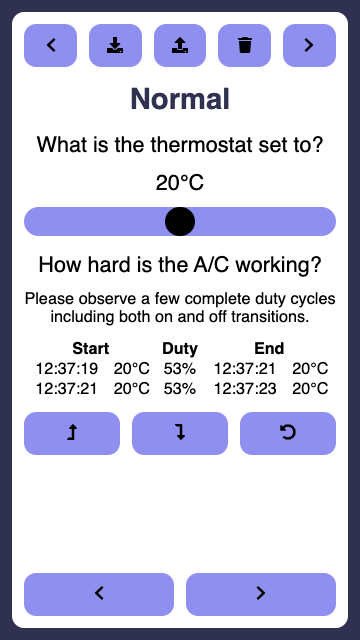
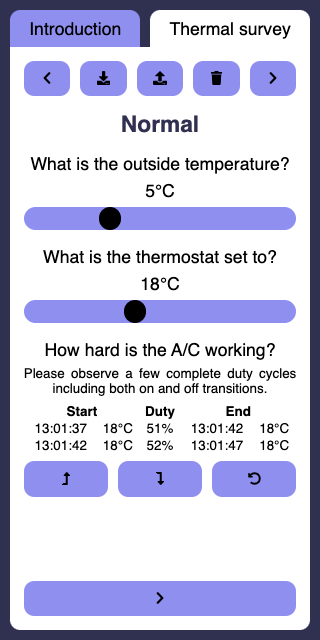
Update documentation to present state
* Update screenshot to show tabbed interface.
* Remove expired or completed TODOS.
* Put the recent work into `review`.
* Update readme

diff --git a/src/components/ThermostaticObservation.vue b/src/components/ThermostaticObservation.vue
@@ -75,7 +75,6 @@ export default defineComponent({
 					this.modelValue.slice(0, -1).concat([newTail])
 				);
 			} else if (
-				// TODO Replace this whole time listing with a list of times
 				recent.startTime !== undefined &&
 				recent.transitionTime !== undefined &&
 				recent.endTime === undefined

diff --git a/src/components/ThermalSurvey.vue b/src/components/ThermalSurvey.vue
@@ -270,7 +270,6 @@ export default defineComponent({
 				...data,
 			};
 		},
-		// TODO Tidy incomplete observations on phase shift
 		doNext(): void {
 			Object.assign(this.$data, this.cleanseData(this.$data));
 			if (this.phase === ObservationPhases.Introduction) {

diff --git a/README.md b/README.md
@@ -23,7 +23,7 @@ This offsetting of operation through time is equivalent to storing energy when p
 
 ## Deliverables
 
-This project will create an application to steer an operator towards more efficient scheduling.
+This project will create an application to steer a server room technician towards more efficient scheduling.
 It will gather the data required via a survey, model the thermal characteristics of the room, compute an optimised thermostat schedule and present the forecast savings.
 The project assumes that its audience is technical, consistent with having some responsibility for a server room's environmental controls.
 
@@ -44,9 +44,9 @@ This budget resolves to about six full-time equivalent weeks.
 
 In choosing the software development model, the first consideration is positioning on the spectrum from waterfall to agile.
 This project has a small, well-bounded and useful product within a sizeable pluripotential scope for development.
-For example, the MVP could consist of a data-gathering flow, a simplified thermal model, a schedule optimisation algorithm and a brief final report.
+For example, the minimum viable product (MVP) could consist of a data-gathering flow, a simplified thermal model, a schedule optimisation algorithm and a brief final report.
 Alongside architecture decisions and toolchain initialisation, this MVP will require an estimated 70% of the project budget.
-The scope for improving this offering includes iteratively improving any of these functional requirements, adding integration with APIs, the internet of things, and more accurate modelling.
+The scope for improving this offering includes iteratively improving any of these functional requirements, adding integration with APIs, the internet of things (IoT), and more accurate modelling.
 It is also worth noting that it is not a critical system and the project commissioners require several milestones.
 In conclusion, this project will be organised in an agile fashion, prompted mainly by the relative scale of MVP and potential.
 The MVP development will be a series of small increments, with further development being incremental or iterative as required.
@@ -80,18 +80,21 @@ Third, there is value to data communication and sharing, but this is not an esse
 Finally, this should be available without installation as a significant proportion of users are likely to be single-use.
 These requirements suit deployment as a stand-alone website using client-side data retention and processing.
 
+The main issue with this deployment style is migrating data from previous versions, as the data is not under the systems' control. 
+To offset this issue, the top-level data objects will have version numbers, and there shall be a data loading procedure capable of stepping a dataset up the version numbers.
+
 Due to the project time constraints, the language and framework must be familiar to the developer.
 In addition, the project is quite data-centric, so it favours a strong type system.
 Alongside this, the immediate context for deployment is the web, so the language choice must support this.
 Finally, there is also potential for IoT and mobile deployments, which should steer consideration.
 Within these criteria, TypeScript seems the best choice for language.
 It has a modern type system, is compilable to ECMAScript for web deployment, can be executed in Node.js for IoT deployment and is familiar to the developer.
-One concern is its deployability as a mobile app, but the *-native projects should accommodate this.
+Of course, the entire product might derive value from a mobile-app deployment, but this is both beyond this project's scope and probably resolvable using the *-native projects.
 
-The selection of a user interface framework is more balanced than language but with a couple of early eliminations.
+The user interface framework selection is more balanced than language but with a couple of early eliminations.
 First, direct DOM manipulation is not sustainable or manageable.
-Secondly, server-side rendering of the DOM adds unnecessary components, specifically server-side processing.
-Therefore client-side reactive web frameworks were considered.
+Secondly, server-side calculation of the HTML adds unnecessary components, specifically server-side processing.
+Therefore client-side reactive web frameworks were favoured, simplifying the deployment and maintenance, with both Vue.js and React being familiar.
 As tie-breakers, the Vue.js experience was more developer-friendly, and it has a higher quantity of GitHub stars.
 In conclusion, this project will use Vue.js, especially single file components, but this was a close decision.
 
@@ -114,21 +117,24 @@ Figure n.n - Feature comparison matrix of language options.
 
 ## Work Completed
 
-For several reasons, gathering a set of thermal observations was a vital early milestone and this received priority above other concerns.
-First, gaining access to an example server room provides a case study, and gathering these observations proved that access.
+For several reasons, gathering a set of thermal observations is a vital early milestone and this received priority above other concerns.
+First, gaining access to an example server room provides a case study, and gathering these observations proves that access.
 Furthermore, these observations will inform and verify modelling assumptions, which is improved by gathering these observations across as wide a range of seasons as possible.
 
 Several elements were required to script this set of observations.
 Most importantly, research into the thermal behaviour of rooms was conducted and supplemented by a quick survey of the room available.
 This research ensured that any detailed survey taken suited a fully formed model.
 Since such a model would require calculations of how rapidly a room could change temperature, permission to adjust the room's thermostat was negotiated.
-The quick survey revealed that the server room windows are north facing and boarded over, so the initial model can ignore radiative thermal effects.
+The quick survey revealed that the server room windows are north facing and boarded over, so the initial model can ignore solar thermal effects.
+
+![Plan showing a server room 9m x 12m x 4m](docs/bdx_plan.png)
 
 Figure n.n - Plan of the server room surveyed
 
 To support this survey, the developer initialised the UI of this project, designed the survey's workflow, and implemented this in the interface.
 The UI consists of a reactive website with custom data-gathering components, targetting low resolutions and touchscreen interaction to support smartphone usage.
-Within this, the survey observes the room as it moves between and maintains different temperatures. As a result, this data should support an intermediate thermal model.
+Within this, the survey asks about the room as it moves between and maintains different temperatures.
+As a result, this data should support an intermediate thermal model.
 
 ![Overview of gathering data](docs/thermal_observation_sequence.png)
 
@@ -136,7 +142,7 @@ Figure n.n - Overview of the thermal survey workflow.
 
 ![Smartphone interface](docs/screenshot.png)
 
-Figure n.n - Web interface at 360 x 640
+Figure n.n - Web interface at 360 x 640.
 
 ## Simplifications
 
@@ -162,13 +168,14 @@ This section records the simplifying assumptions currently applied to the modell
   * Active observations measure the duty time required to enact temperature changes.
   * The duty cycle is directly proportional to the resource cost required without needing thermal units.
   * The basic units become `duty`, `celsius` and `hour`.
-    * e.g., passive cooling reduces the duty cycle of the air conditioning by 3% per celsius difference.
-    * e.g., changing the server room's temperature requires one duty hour per celsius.
-    * e.g., running the air conditioning uses 1 ton of CO2 per duty hour.
+  * e.g., passive cooling reduces the duty cycle of the air conditioning by 3% per celsius difference.
+  * e.g., changing the server room's temperature requires one duty hour per celsius.
+  * e.g., running the air conditioning uses 1 ton of CO2 per duty hour.
 
 ## Roadmap
 
-In line with the project lifecycle adopted, this is several lists of stakeholder stories, each in the format `A (stakeholder) (must|should|could|will not) …`.
+Similar to the project lifecycle adopted, this is several lists of stakeholder stories, each in the format `A (stakeholder) (must|should|could|will not) …`.
+This project adapts the core Kanban board by broadening the scope of concerns from "user stories" to "stakeholder stories" and by adding a qualitative bucket to capture persistent requirements.
 These stories will move in step with the code that implements them and reside in the code repository, so the project history is always accurate of that moment in time.
 
 ### Backlog
@@ -188,13 +195,12 @@ These stories will move in step with the code that implements them and reside in
 * A technician must be able to input an electricity tariff schedule.
 * A technician must be able to generate an optimised thermostat schedule.
 * A technician must be able to generate a business-oriented report.
-* A technician must be able to gather thermal observations of a server room.
-
-### Design
 
 ### Develop
 
-### Review
+### Done
+
+* A technician must be able to gather thermal observations of a server room.
 
 ### Qualitative
 
@@ -205,19 +211,18 @@ These stories will move in step with the code that implements them and reside in
 
 ## Blockers
 
-To achieve the task, "A technician should have information on an example server room available." the project requires permission to observe and adjust the thermostat of a server room.
+To achieve the task, "*A technician should have information on an example server room available.*" the project requires permission to observe and adjust the thermostat of a server room.
 This permission is critical as the risk has a high likelihood and high impact.
 This concern is likely because the temperature is a tightly controlled aspect of a server room.
-Furthermore, it is impactful because this example provides feedback about the user experience and gives the project a case study. 
+Furthermore, it is impactful because this example provides feedback about the user experience and gives the project a case study.
 
 Therefore, negotiation-in-principle started immediately upon beginning the project to bring any related decision point forwards.
 Now that we have outlined a survey workflow, the developer is negotiating access to perform the required tasks.
 If this negotiation fails, the project may continue without a case study or transition to modelling a more available example of thermodynamics and power offsetting, such as domestic refrigerators.
 
-To achieve or defer the task, "A technician should be able to model a room with significant passive cooling." the project must incorporate learning into the mathematics of thermodynamic cooling.
-Failing in this learning is of medium likelihood as the science is sure to be public domain but is also likely to be intermediate.
+To achieve or defer the task, "*A technician should be able to model a room with significant passive cooling.*" the project must incorporate learning into the mathematics of thermodynamic cooling.
+Failing in this learning is of medium likelihood as the science is sure to be public domain but is also likely to be intermediate level.
 In addition, this research is of high impact as it can underwrite and prioritise other simplifications.
-
 Therefore, achieving a basic understanding of this field is second only to finding an engaging case study, and is the target of early secondary research efforts.
 
 ## Thermodynamics
@@ -233,16 +238,16 @@ Figure n.n - Building management system (BMS) interface
 
 Two 51.6kW air conditioning units cool the BDX for a total cooling power of 103.2kW.
 This infrastructure is N + 1 redundant, implying a cap upon server equipment at 51.6kW before upgrades.
-The BDX complements this with precision units that cool the server equipment by heating the thermal mass of the room.
+The BDX complements this with precision units that cool the server equipment by heating the room's environment.
 
 The BMS holds the room at 20 degrees celsius, and the external temperature varies between 3 and 20 degrees celsius.
-The external wall comprises an uninsulated stud wall, an access corridor and a single pane glass wall of about 23 m².
-An upper estimate of cooling through this wall (rounded up to 1 s.f.) is 1 kilowatt (see Appendix n).
-This estimate diminishes the importance of modelling weather conditions in this situation.
+The external wall comprises a plastered concrete wall, an access corridor and a single pane glass wall of about 44 m^2.
+Therefore, an upper estimate of cooling through this wall (rounded up to 2 s.f.) is 1.8 kilowatt (see Appendix n).
+This estimate puts a medium prioritisation on modelling weather conditions in this situation.
 
-The remaining surfaces of the BDX separate the room from other offices and underground.
+The remaining surfaces of the BDX separate the room from other offices and underground with a surface area of around 330 m^2.
 The calculations model a 2 kelvin difference with the data hall to estimate significance.
-An upper estimate of cooling through the floor, ceiling, internal, and underground walls is 900 watts (rounded up to 1 s.f.) (see Appendix n) for a passive cooling total of up to 2 kilowatts.
+An upper estimate of cooling through the floor, ceiling, internal, and underground walls is 1.3 kilowatts (rounded up to 2 s.f.) (see Appendix n).
 This estimate puts a medium prioritisation on modelling passive cooling.
 
 Although further research is warranted and scheduled, these relative significances seem generalisable.
@@ -276,9 +281,9 @@ Figure n.n - Quick survey of typical server room construction
 | Brighton Digital Exchange Data Centre                           | Sudlows                 | 2015-07           | <https://www.sudlows.com/wp-content/uploads/2016/07/Brighton-Digital-Exchange.pdf>                  | 2022-02-14  | Case study            |
 | ACIS provides the big picture at Brighton Digital Exchange      | Airedale                | 2015-07           | <https://www.airedale.com/case-studies/acis-provides-the-big-picture-at-brighton-digital-exchange>  | 2022-02-14  | Case study            |
 | Energy in buildings                                             | OpenLearn               | 2019-03           | <https://www.open.edu/openlearn/nature-environment/energy-buildings/content-section-2>              | 2022-02-15  | Modelling data        |
-| Environmental design : CIBSE guide A. 8th ed.                   | CIBSE.                  | 2015              | <https://app.knovel.com/kn/resources/kpEDCIBSE1/toc>                                                | 2022-02-15  | Modelling data        |
-| Server room image search at DuckDuckGo    | DuckDuckGo              | 2022-02           | <https://duckduckgo.com/?q=server+room&t=h_&iax=images&ia=images>                                   | 2022-02-15  | Quick case studies    |
-| What is Agile?                                                  | Atlassian               | 2019              | <https://www.atlassian.com/agile>                                                                   | 2022-02-15  | Development process   |
+| Environmental design : CIBSE guide A. 8th ed.                   | CIBSE.                  | 2015-07           | <https://app.knovel.com/kn/resources/kpEDCIBSE1/toc>                                                | 2022-02-15  | Modelling data        |
+| Server room image search at DuckDuckGo                          | DuckDuckGo              | 2022-02           | <https://duckduckgo.com/?q=server+room&t=h_&iax=images&ia=images>                                   | 2022-02-15  | Quick case studies    |
+| What is Agile?                                                  | Atlassian               | 2019-03           | <https://www.atlassian.com/agile>                                                                   | 2022-02-15  | Development process   |
 
 ## To Read
 
